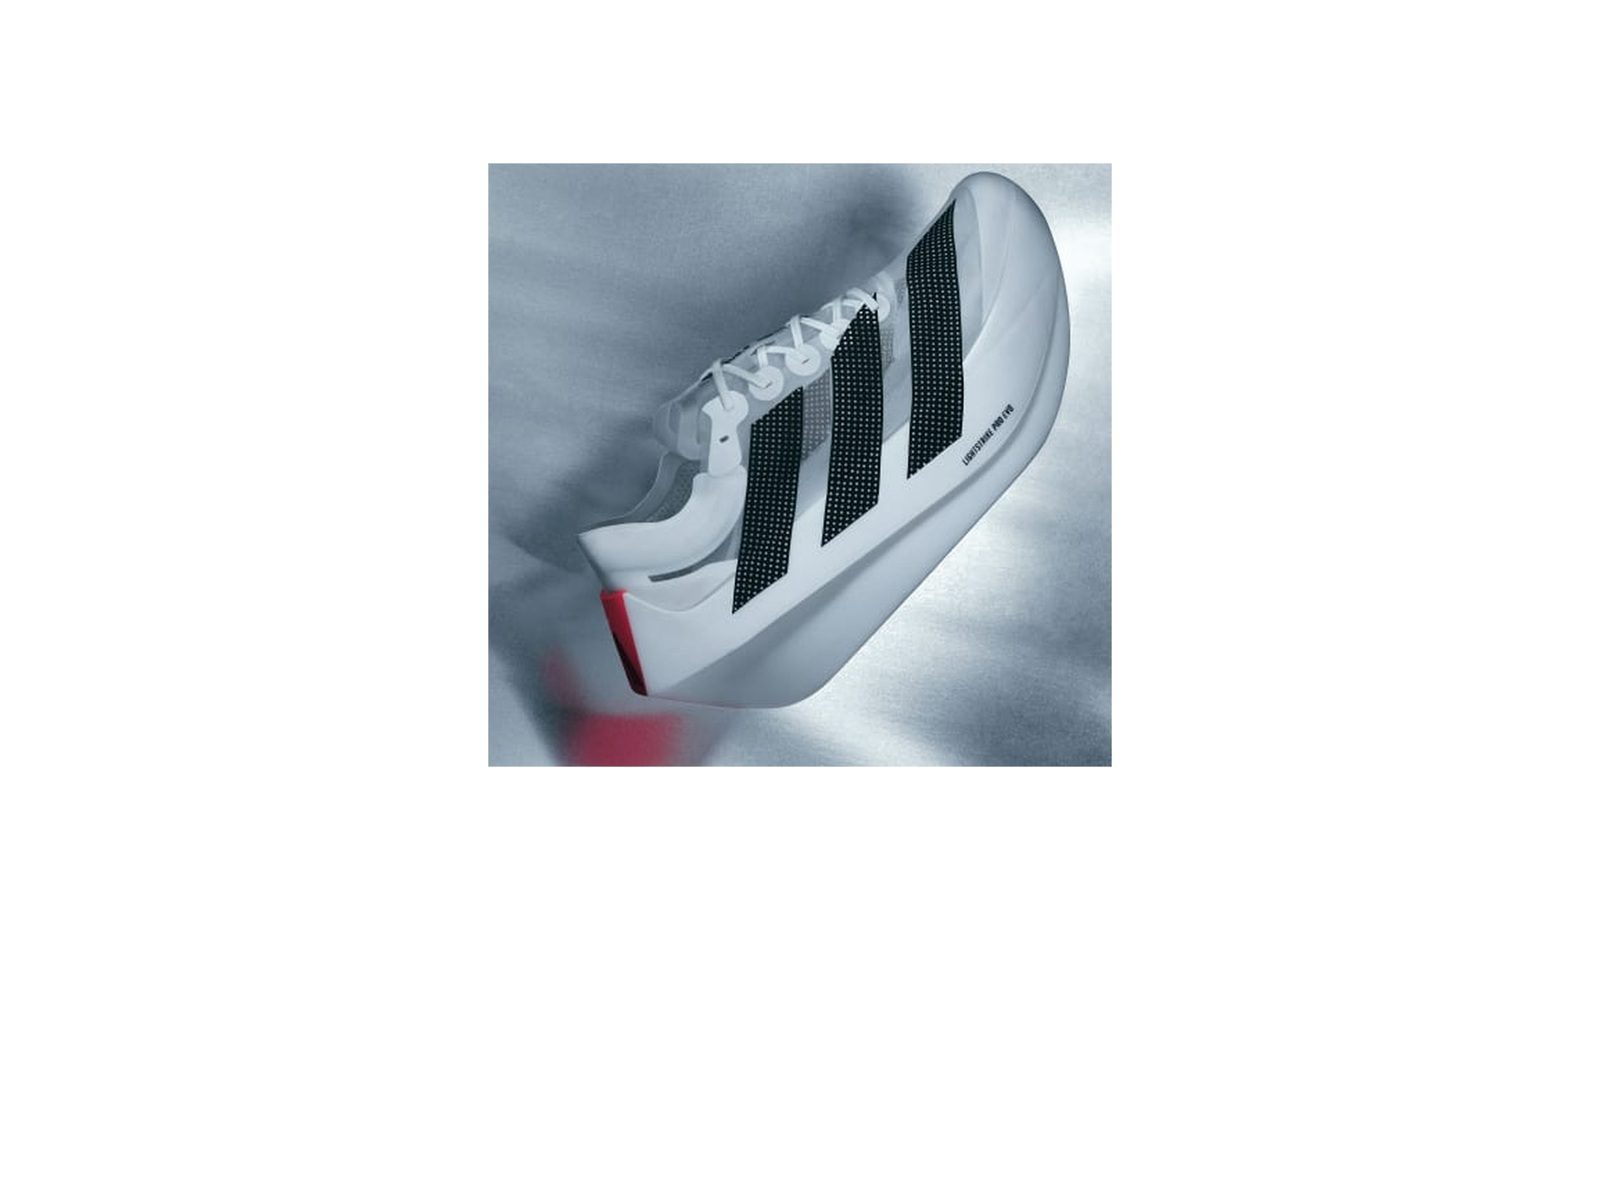
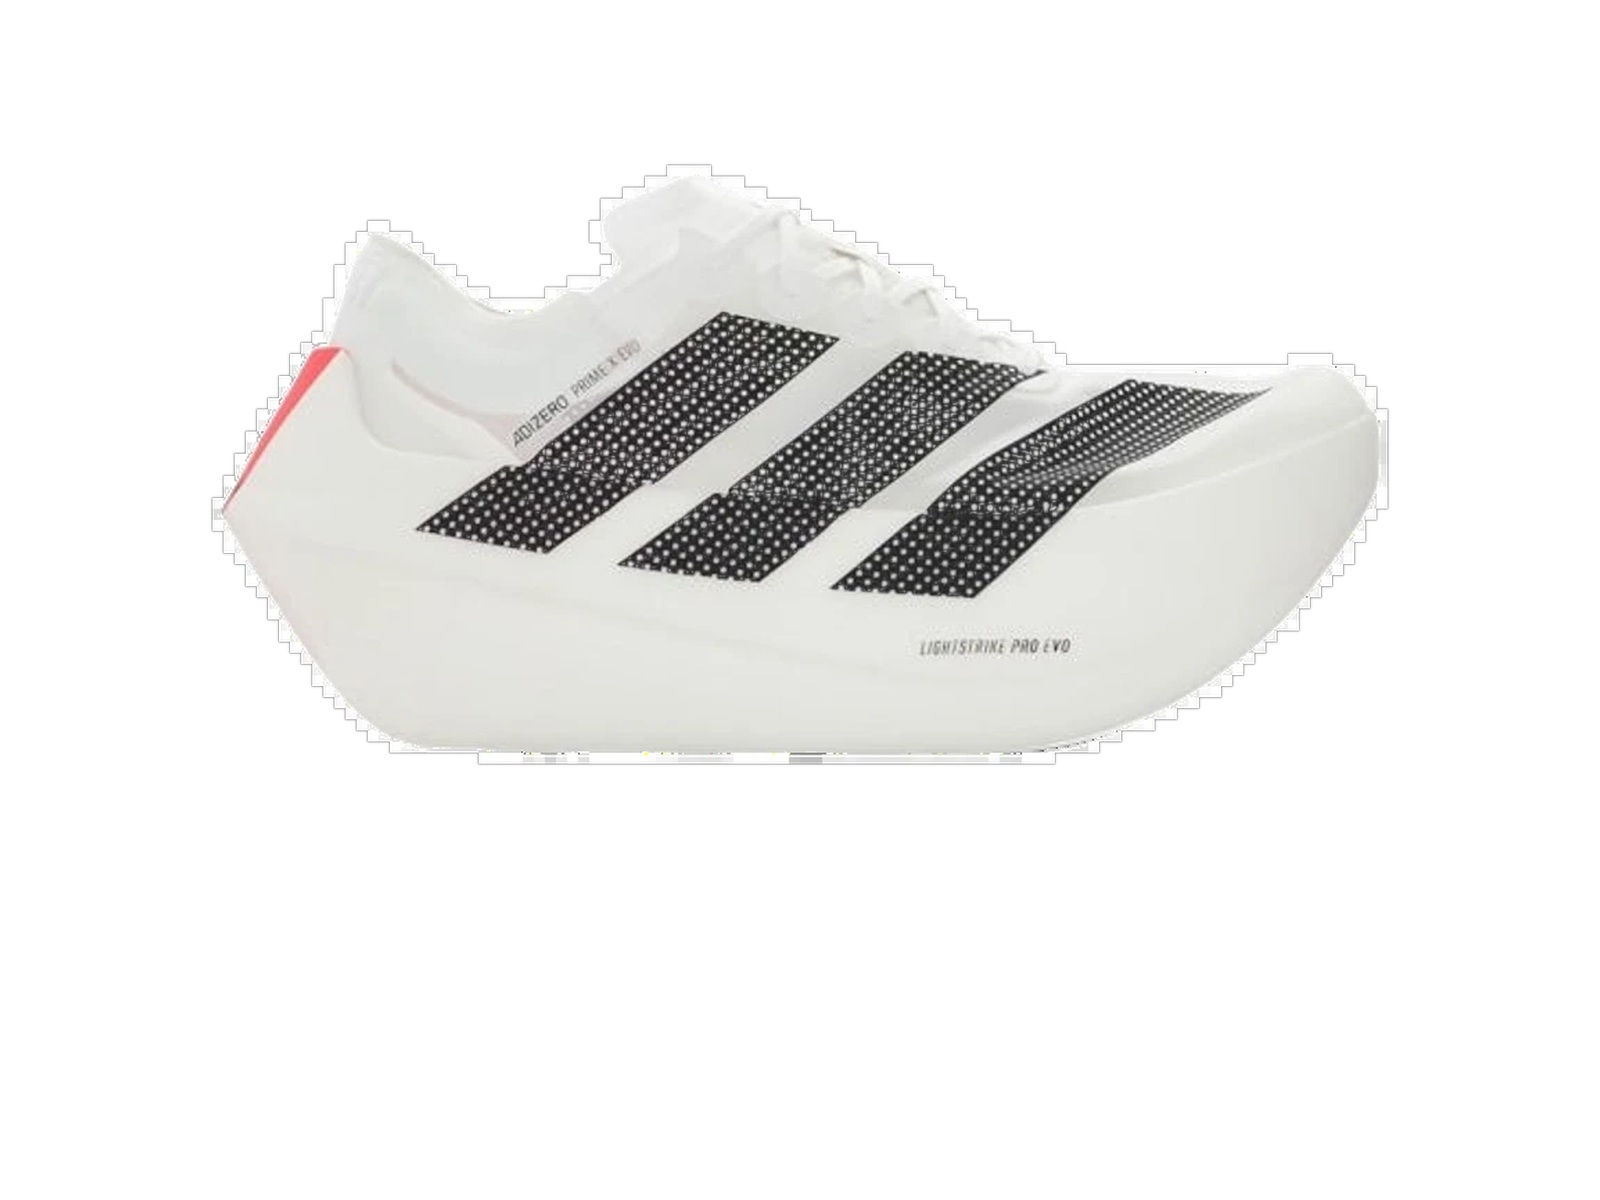
Improve Prime X Evo product image

Changed region(s): [[0.125, 0.1233, 0.875, 0.6475]]

diff --git a/data/shoes.js b/data/shoes.js
@@ -7,7 +7,7 @@
 
   const SOURCE_POST =
     "https://gall.dcinside.com/mgallery/board/view/?id=running&no=1117518";
-  const IMAGE_VERSION = "20260901-direction-1";
+  const IMAGE_VERSION = "20260903-prime-x-evo-1";
   const LINEUP_VERSION = "20260826-lineup-archive-1";
 
   window.RUNNING_LINEUP_VERSION = LINEUP_VERSION;
@@ -100,7 +100,7 @@
     "adidas-아디오스-프로-4": {"imageUrl": "https://assets.adidas.com/images/w_1880,f_auto,q_auto/bfc25166a6114abf925951fce92f5c7a_9366/JR1163_01_00_standard.jpg", "imageSourceUrl": "https://www.adidas.com/qa/en/adizero-adios-pro-4-shoes/JR1163.html", "officialProductUrl": "https://www.adidas.com/qa/en/adizero-adios-pro-4-shoes/JR1163.html", "displayName": "Adizero Adios Pro 4", "imageFit": "contain", "imagePosition": "center", "imageScale": 0.94},
     "adidas-에보-sl": {"imageUrl": "https://assets.adidas.com/images/w_1880,f_auto,q_auto/5d40adba58d446cfb32e20b75f966cbe_9366/JP7149_01_00_standard.jpg", "imageSourceUrl": "https://www.adidas.com/qa/en/adizero-evo-sl-shoes/JP7149.html", "officialProductUrl": "https://www.adidas.com/qa/en/adizero-evo-sl-shoes/JP7149.html", "displayName": "Adizero EVO SL", "imageFit": "contain", "imagePosition": "center", "imageScale": 0.94},
     "adidas-타쿠미-센-11": {"imageUrl": "https://assets.adidas.com/images/w_1880,f_auto,q_auto/3766dc7c58dd4e259fc8972b0eba6e64_9366/Adizero_Takumi_Sen_11_Shoes_Pink_JQ2812_HM1.jpg", "imageSourceUrl": "https://www.adidas.com.au/adizero-takumi-sen-11-shoes/JQ2812.html", "officialProductUrl": "https://www.adidas.com.au/adizero-takumi-sen-11-shoes/JQ2812.html", "displayName": "Adizero Takumi Sen 11", "imageFit": "contain", "imagePosition": "center", "imageScale": 0.94},
-    "adidas-프라임-x-에보": {"imageUrl": "https://assets.adidas.com/images/w_600%2Cf_auto%2Cq_auto/419aae1073be4298ae00eadb26028641_9366/ADIZERO_Prime_X_EVO_Shoes_White_KH7677_HM53_hover.jpg", "imageSourceUrl": "https://www.adidas.com.au/adizero-prime-x-evo-shoes/KH7677.html", "officialProductUrl": "https://www.adidas.com.au/adizero-prime-x-evo-shoes/KH7677.html", "displayName": "Adizero Prime X Evo", "imageFit": "contain", "imagePosition": "center", "imageScale": 0.94},
+    "adidas-프라임-x-에보": {"imageUrl": "https://kream-phinf.pstatic.net/MjAyNTEyMjJfMjc4/MDAxNzY2MzY3MDA0MTkz.cPTnTYg9D-kN95OnP2M3egRmwOHLzjesT4zd6ecWWaYg.KQw6VT1mOwe_Np0oaWJ99QySS4n4zlG4sDjnnv_Br-gg.PNG/a_61b821428a7f4acc87f7409c537268b9.png?type=l_webp", "imageSourceUrl": "https://kream-phinf.pstatic.net/MjAyNTEyMjJfMjc4/MDAxNzY2MzY3MDA0MTkz.cPTnTYg9D-kN95OnP2M3egRmwOHLzjesT4zd6ecWWaYg.KQw6VT1mOwe_Np0oaWJ99QySS4n4zlG4sDjnnv_Br-gg.PNG/a_61b821428a7f4acc87f7409c537268b9.png?type=l_webp", "officialProductUrl": "https://www.adidas.com.au/adizero-prime-x-evo-shoes/KH7677.html", "imageSourceKind": "userProvided", "displayName": "Adizero Prime X Evo", "imageFit": "contain", "imagePosition": "center", "imageScale": 0.94},
     "adidas-프라임-x3-스트렁": {"imageUrl": "https://assets.adidas.com/images/w_600%2Cf_auto%2Cq_auto/9555beb9306644188463c13282f7e01f_9366/Adizero_Prime_X3_Strung_Shoes_White_JR2597_HM1.jpg", "imageSourceUrl": "https://www.adidas.com.au/adizero-prime-x3-strung-shoes/JR2597.html", "officialProductUrl": "https://www.adidas.com.au/adizero-prime-x3-strung-shoes/JR2597.html", "displayName": "Adizero Prime X 3 Strung", "imageFit": "contain", "imagePosition": "center", "imageScale": 0.94},
     "adidas-프로-에보-3": {"imageUrl": "https://assets.adidas.com/images/w_600%2Cf_auto%2Cq_auto/9a6bcdf1c48e4c0298e897623d921571_9366/ADIZERO_ADIOS_PRO_EVO_3_Shoes_White_KH7678_01_00_standard.jpg", "imageSourceUrl": "https://www.adidas.com/us/adizero-adios-pro-evo-3-shoes/KH7678.html", "officialProductUrl": "https://www.adidas.com/us/adizero-adios-pro-evo-3-shoes/KH7678.html", "displayName": "Adizero Pro Evo 3", "imageFit": "contain", "imagePosition": "center", "imageScale": 0.94},
     "adidas-하이퍼부스트-엣지": {"imageUrl": "https://assets.adidas.com/images/w_1880,f_auto,q_auto/40bc238de20b46a7883c27238e9d13f1_9366/KI1916_01_00_standard.jpg", "imageSourceUrl": "https://www.adidas.com/us/hyperboost-edge-running-shoes/KI1916.html", "officialProductUrl": "https://www.adidas.com/us/hyperboost-edge-running-shoes/KI1916.html", "displayName": "Hyperboost Edge", "imageFit": "contain", "imagePosition": "center", "imageScale": 0.94},
@@ -400,6 +400,7 @@
       imageScale: image.imageScale || 1,
       imageQuality: image.imageQuality || "side",
       imageFacing: image.imageFacing || "right",
+      imageSourceKind: image.imageSourceKind || "official",
       priceStatus: "planned",
       tableOrder: index,
     };

diff --git a/README.md b/README.md
@@ -33,9 +33,9 @@ node scripts/serve-vercel-like.mjs
 - 상세 페이지: `#/shoe/{id}`
 - 상세 페이지에는 같은 브랜드·종류 셀 기준의 분기별 라인 등장 이력을 표시합니다.
 - 분기별 이력은 원문 추천표를 브랜드와 용도 기준으로 다시 정리한 앱 구조화 데이터입니다.
-- 사진: 브랜드 공식 사이트, 공식 CDN, 공식 뉴스룸 출처 URL
-- 배포용 사진: `assets/shoes-original-safe/000.jpg`~`117.jpg`
-  - 브랜드 공식 사이트·CDN에서 확보한 원본 JPG를 배경 제거와 재인코딩 없이 그대로 사용합니다.
+- 사진: 브랜드 공식 사이트, 공식 CDN, 공식 뉴스룸 출처 URL을 기본으로 사용합니다. `Adizero Prime X Evo`는 공식 페이지에 흰 배경 측면 제품 컷이 없어, 사용자가 제공한 제품 컷을 예외로 사용하며 공식 제품 페이지는 Adidas 링크로 유지합니다.
+- 배포용 사진: `assets/shoes-original-safe/000.*`~`120.*`
+  - 브랜드 공식 사이트·CDN에서 확보한 원본을 배경 제거와 재인코딩 없이 그대로 보관합니다.
   - 한글 파일명 정규화 차이로 배포 환경에서 404가 날 수 있어, 화면에서는 번호 기반 ASCII 파일만 참조합니다.
   - `assets/shoes/`는 원본 보관용이며 `scripts/create-official-image-assets.py`가 현재 데이터 순서에 맞춰 배포용 경로로 원본 파일을 복사합니다.
 - 가격 확인은 자동 최저가가 아니라 네이버·쿠팡 검색 링크로 제공합니다.
